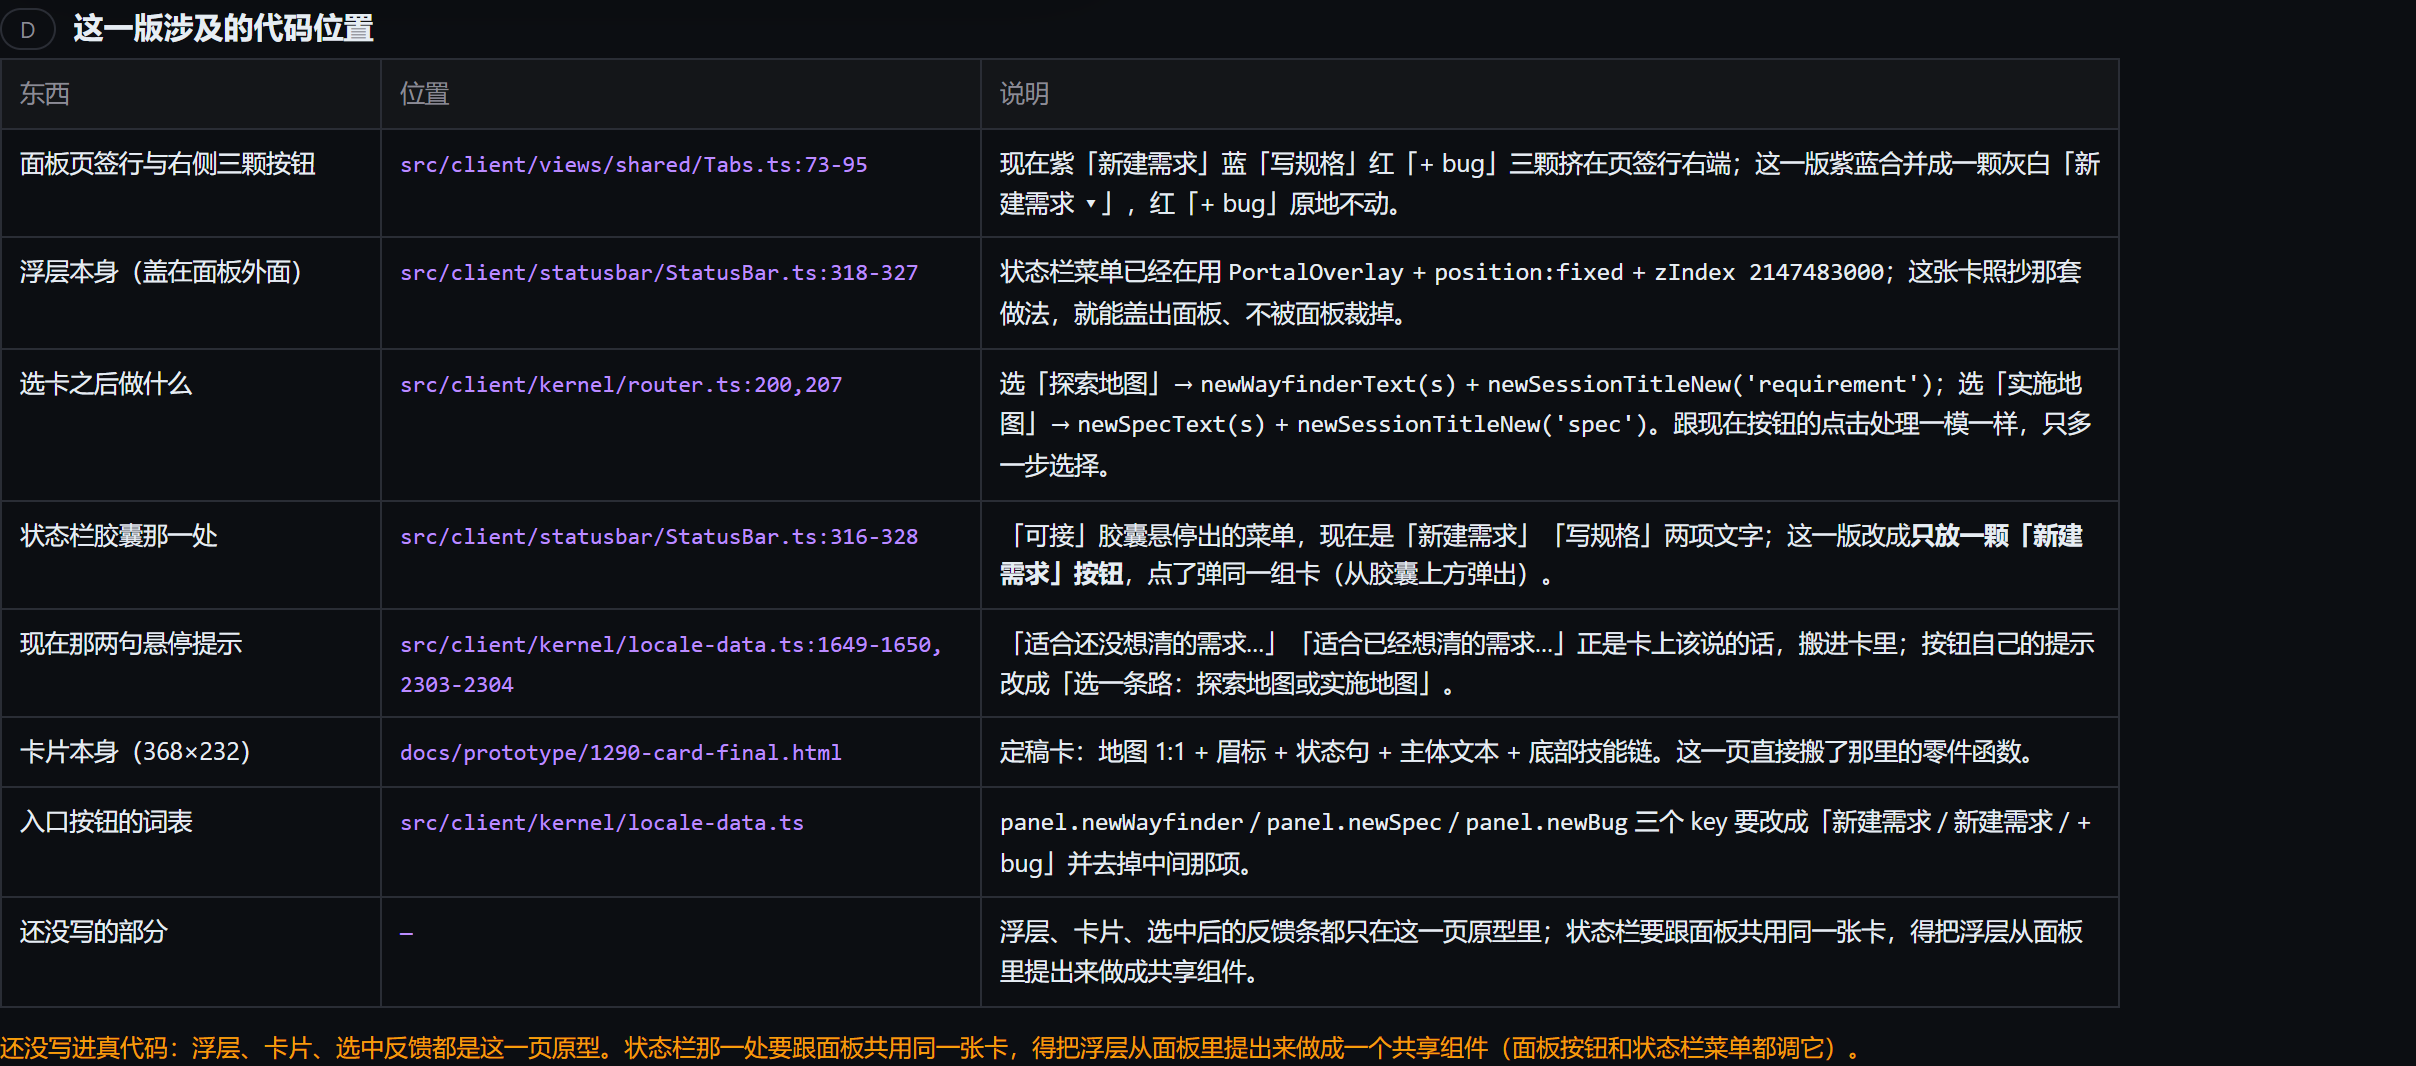
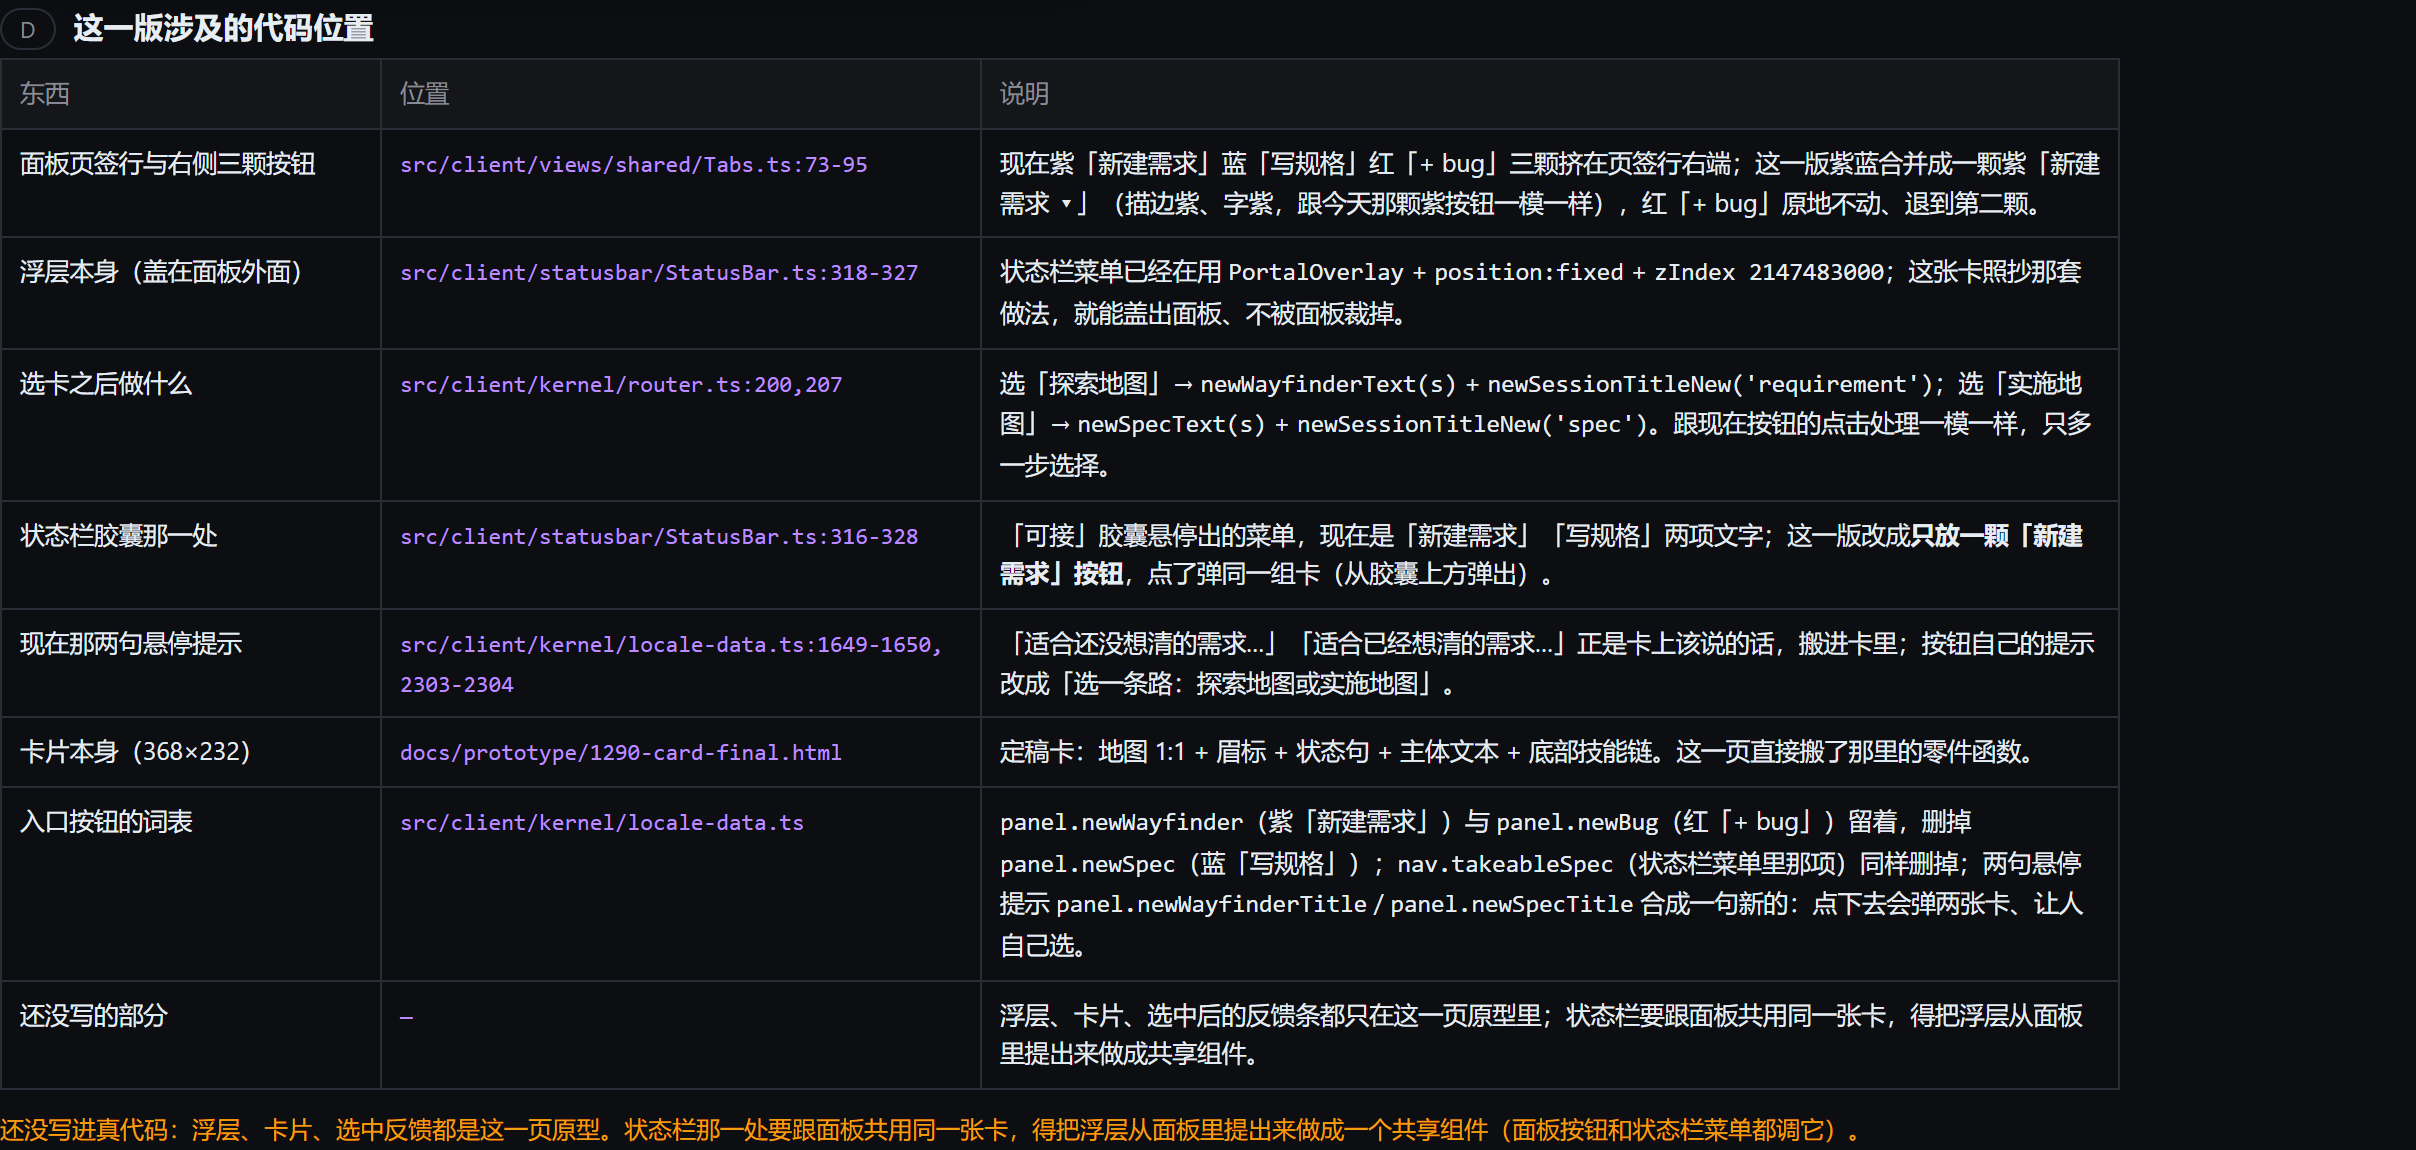
把入口那两颗按钮的口径定下来并画进原型：合并后的「新建需求」改用紫色，因为推荐的就是探索地图那条紫路；「+ bug」留在面板外当第二颗独立按钮，页签行右端从三颗变两颗。

diff --git a/docs/prototype/1290-entry-in-real-ui.html b/docs/prototype/1290-entry-in-real-ui.html
@@ -56,8 +56,9 @@ h2 .tag{font-size:11px;color:var(--cap);font-weight:400;border:1px solid var(--b
 .act.way{border:1px solid var(--purple);color:var(--purple)}
 .act.spec{border:1px solid var(--blue);color:var(--blue)}
 .act.bug{border:1px solid var(--red);color:var(--red)}
-.act.newreq{border:1px solid var(--sec);color:var(--txt)}
-.act.newreq:hover{border-color:var(--txt);background:rgba(255,255,255,.05)}
+/* 合并后的「新建需求」沿用今天那颗紫按钮的样式（描边紫、字紫）——推荐的那条路就是探索地图那条紫路 */
+.act.newreq{border:1px solid var(--purple);color:var(--purple)}
+.act.newreq:hover{border-color:var(--purple-soft);background:rgba(192,132,252,.08)}
 .act .caret{font-size:8px;opacity:.7;transform:translateY(1px)}
 /* 面板正文 */
 .pbody{flex:1;min-height:0;padding:8px 12px 12px;overflow:auto;background:var(--layer2)}
@@ -129,6 +130,7 @@ td .path{font-family:Consolas,Menlo,monospace;font-size:11.5px;color:var(--purpl
   <p>这一版把 B 方案（单按钮 + 两张选择卡）放进<b>真机形态的右侧面板</b>：面板外框、页签行、按钮、胶囊的样式与取值都照真代码复刻（`src/client/kernel/styles.ts` 里的 <code>.dsws-tabs</code>／<code>.dsws-btn</code>／<code>.dsws-capsule</code>，按钮颜色与顺序照 `src/client/views/shared/Tabs.ts:73-95`），只有列表内容用本仓真实票号示意。</p>
   <p><b>要点：</b>浮层是浮在面板<b>外面</b>的（真代码走 <code>PortalOverlay</code> + <code>position: fixed</code>，照状态栏菜单的做法），所以面板窄的时候它会向左盖到聊天区，不会被面板裁掉。</p>
   <p><b>卡上第三行（主体文本）已定稿（2026-10-20）：</b>探索地图是「想清楚了要做什么，没想清楚细节，也没想清楚做到什么程度。」；实施地图是「要做什么、细节和做到什么程度都想清楚了，还没写成规格。」两句都拆成三行、每行不超过 12 个汉字。</p>
+  <p><b>页签行右端那两颗也定稿了（2026-10-20）：</b>合并后的「新建需求」用<b>紫色</b>——透出来推荐的就是探索地图那条紫路；「+ bug」留在面板外当<b>第二颗独立按钮</b>，右端总共两颗，跟今天差不多。</p>
 </div>
 
 <div class="wrap">
@@ -137,7 +139,7 @@ td .path{font-family:Consolas,Menlo,monospace;font-size:11.5px;color:var(--purpl
     <p class="sub">点面板右上角那颗<b>「新建需求」</b>：浮层从按钮下沿展开、右边跟按钮对齐，宽 392px，<b>比 320 宽的面板还宽，于是向左盖到聊天区</b>——真代码里它走 <code>position: fixed</code>，所以面板多窄都不会把卡裁掉。点卡＝选定，点浮层外面＝收起。</p>
     <div class="legend">
       <span><b>现状</b>：页签行右端三颗（紫「新建需求」/ 蓝「写规格」/ 红「+ bug」）</span>
-      <span><b>这一版</b>：紫蓝合并成一颗灰白「新建需求 ▾」，红「+ bug」保持独立</span>
+      <span><b>这一版</b>：紫蓝合并成一颗紫「新建需求 ▾」，红「+ bug」原地不动、退到第二颗</span>
       <span><b>状态栏</b>：胶囊里也只剩一颗「新建需求 ▾」</span>
     </div>
     <div id="winA"></div>
@@ -534,13 +536,13 @@ document.getElementById('optC').innerHTML=
 
 /* ---- D 段：代码位置 ---- */
 var MAPS=[
-  ['面板页签行与右侧三颗按钮','<span class="path">src/client/views/shared/Tabs.ts:73-95</span>','现在紫「新建需求」蓝「写规格」红「+ bug」三颗挤在页签行右端；这一版紫蓝合并成一颗灰白「新建需求 ▾」，红「+ bug」原地不动。'],
+  ['面板页签行与右侧三颗按钮','<span class="path">src/client/views/shared/Tabs.ts:73-95</span>','现在紫「新建需求」蓝「写规格」红「+ bug」三颗挤在页签行右端；这一版紫蓝合并成一颗紫「新建需求 ▾」（描边紫、字紫，跟今天那颗紫按钮一模一样），红「+ bug」原地不动、退到第二颗。'],
   ['浮层本身（盖在面板外面）','<span class="path">src/client/statusbar/StatusBar.ts:318-327</span>','状态栏菜单已经在用 <code>PortalOverlay</code> + <code>position:fixed</code> + <code>zIndex 2147483000</code>；这张卡照抄那套做法，就能盖出面板、不被面板裁掉。'],
   ['选卡之后做什么','<span class="path">src/client/kernel/router.ts:200,207</span>','选「探索地图」→ <code>newWayfinderText(s)</code> + <code>newSessionTitleNew(\'requirement\')</code>；选「实施地图」→ <code>newSpecText(s)</code> + <code>newSessionTitleNew(\'spec\')</code>。跟现在按钮的点击处理一模一样，只多一步选择。'],
   ['状态栏胶囊那一处','<span class="path">src/client/statusbar/StatusBar.ts:316-328</span>','「可接」胶囊悬停出的菜单，现在是「新建需求」「写规格」两项文字；这一版改成<b>只放一颗「新建需求」按钮</b>，点了弹同一组卡（从胶囊上方弹出）。'],
   ['现在那两句悬停提示','<span class="path">src/client/kernel/locale-data.ts:1649-1650, 2303-2304</span>','「适合还没想清的需求…」「适合已经想清的需求…」正是卡上该说的话，搬进卡里；按钮自己的提示改成「选一条路：探索地图或实施地图」。'],
   ['卡片本身（368×232）','<span class="path">docs/prototype/1290-card-final.html</span>','定稿卡：地图 1:1 + 眉标 + 状态句 + 主体文本 + 底部技能链。这一页直接搬了那里的零件函数。'],
-  ['入口按钮的词表','<span class="path">src/client/kernel/locale-data.ts</span>','<code>panel.newWayfinder</code> / <code>panel.newSpec</code> / <code>panel.newBug</code> 三个 key 要改成「新建需求 / 新建需求 / + bug」并去掉中间那项。'],
+  ['入口按钮的词表','<span class="path">src/client/kernel/locale-data.ts</span>','<code>panel.newWayfinder</code>（紫「新建需求」）与 <code>panel.newBug</code>（红「+ bug」）留着，删掉 <code>panel.newSpec</code>（蓝「写规格」）；<code>nav.takeableSpec</code>（状态栏菜单里那项）同样删掉；两句悬停提示 <code>panel.newWayfinderTitle</code> / <code>panel.newSpecTitle</code> 合成一句新的：点下去会弹两张卡、让人自己选。'],
   ['还没写的部分','<span class="path">—</span>','浮层、卡片、选中后的反馈条都只在这一页原型里；状态栏要跟面板共用同一张卡，得把浮层从面板里提出来做成共享组件。']
 ];
 document.getElementById('mapTable').innerHTML=
